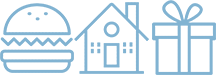
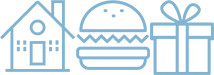
Исправила верстку иконок на главной (вместо дивов - псевдоэлемент ::before)

diff --git a/css/style.css b/css/style.css
@@ -97,7 +97,8 @@ li {
 }
 
 .plain-text p {
-  padding-top: 14px;
+  line-height: 26px;
+  padding-top: 13px;
 }
 
 
@@ -142,10 +143,6 @@ li {
   color: black;
 }
 
-.reasons-grey h2 {
-
-}
-
 .reasons-grey span {
   padding-top: 4px;
   color: black;
@@ -165,37 +162,29 @@ li {
 
 .services h2 {
   color: black;
-  margin-top: 25px;
+  margin-top: 163px;
   margin-bottom: 24px;
 }
 
 .services-item {
+  position: relative;
   display: inline-block;
   vertical-align: top;
   width: 400px;
-  height: 330px;
   font-size: 14px;
   text-align: center;
-
 }
-
-.services-icon {
-  width: 74px;
-  height: 80px;
-  margin-left: 163px;
-  margin-top: 58px;
+.services-item::before {
+  outline: 1px solid cyan;
+  content: "";
+  position: absolute;
+  top: 60px;
+  left: 163px;
+  width: 75px;
+  height: 75px;
   background-image: url(../img/services-icon.png);
-  background-repeat: no-repeat;
 }
 
-.icon-house {
-  background-position: -75px 1px;
-}
-
-.icon-present {
-  margin-left: 167px;
-  background-position: -152px -1px;
-}
 .search {
   padding-top: 33px;
   text-align: center;

diff --git a/index.html b/index.html
@@ -79,7 +79,6 @@
           </p>
         </div>
         <div class="services-item">
-          <div class="services-icon icon-food"></div>
           <h2>
             Еда
           </h2>
@@ -89,7 +88,6 @@
           </p>
         </div>
         <div class="services-item">
-          <div class="services-icon icon-present"></div>
           <h2>
             Сувениры
           </h2>
